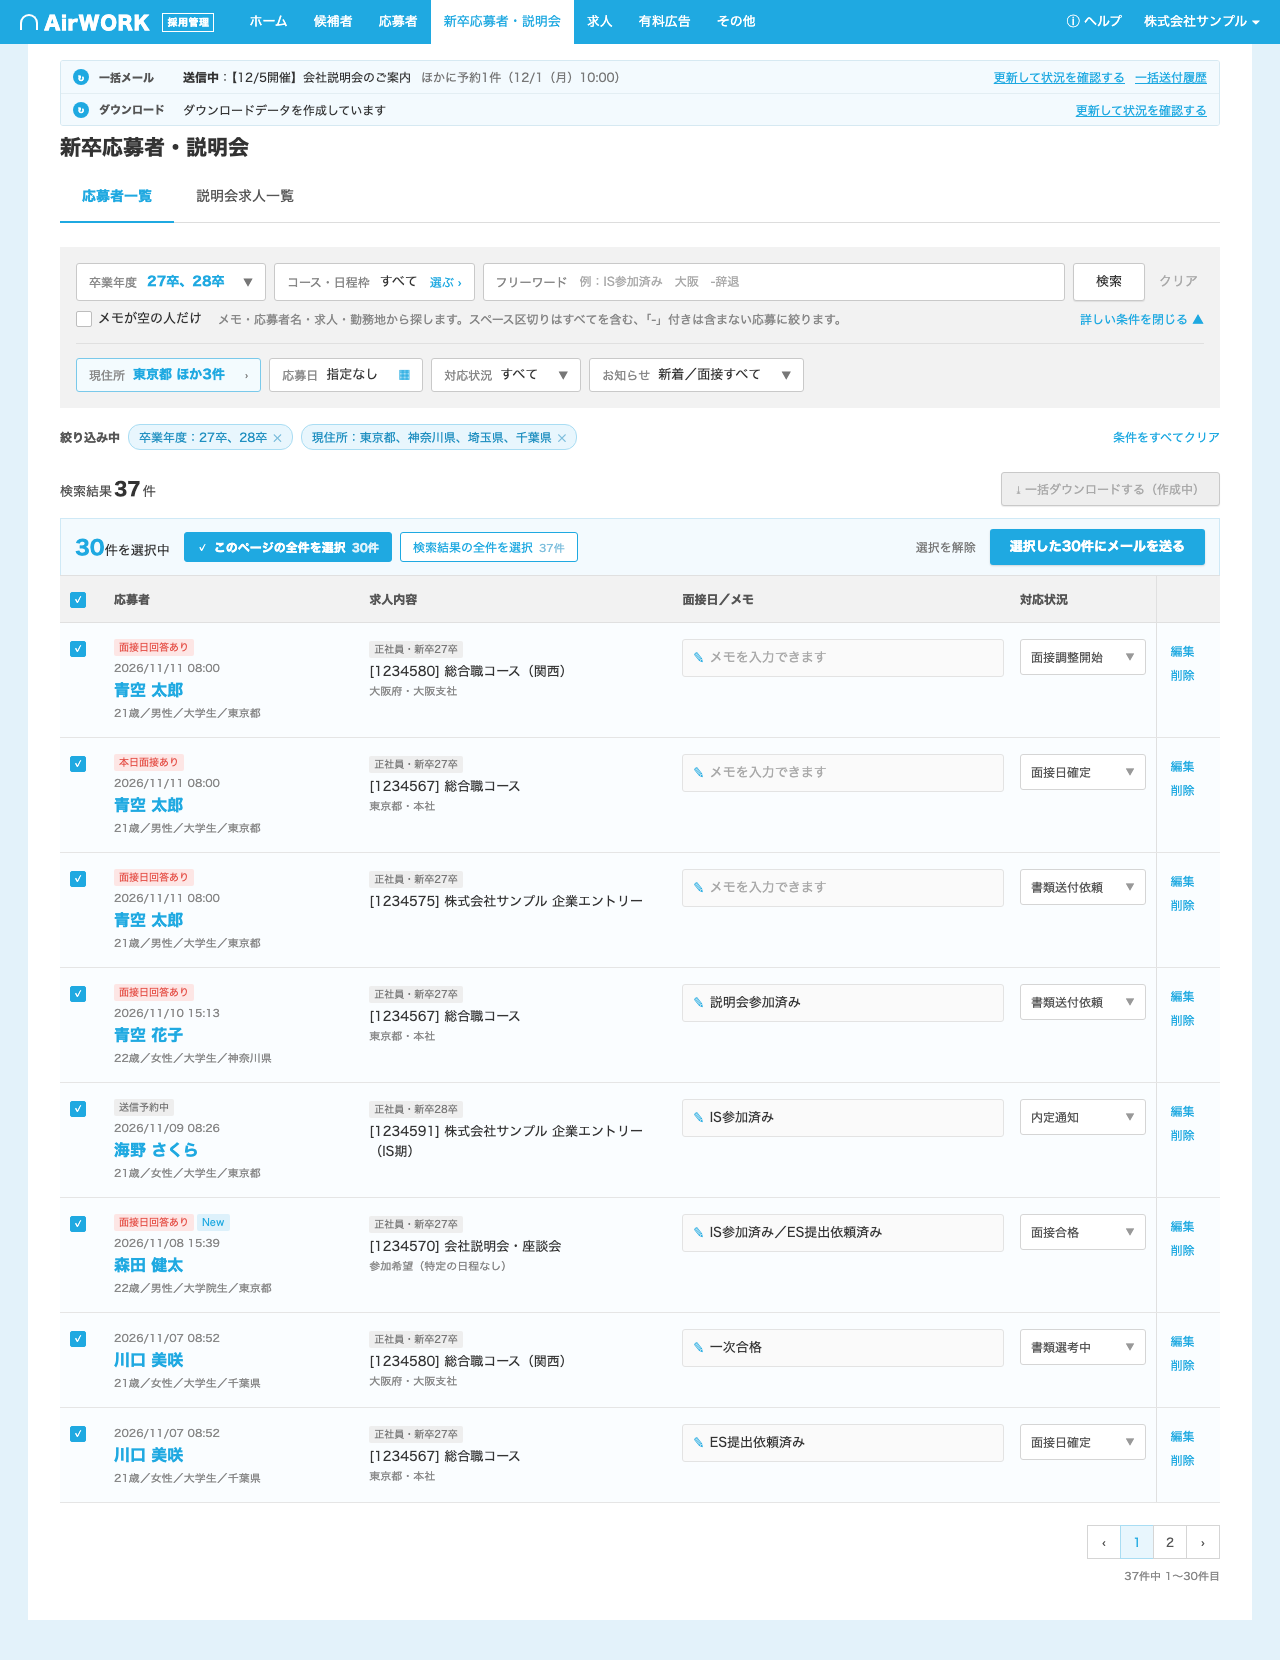
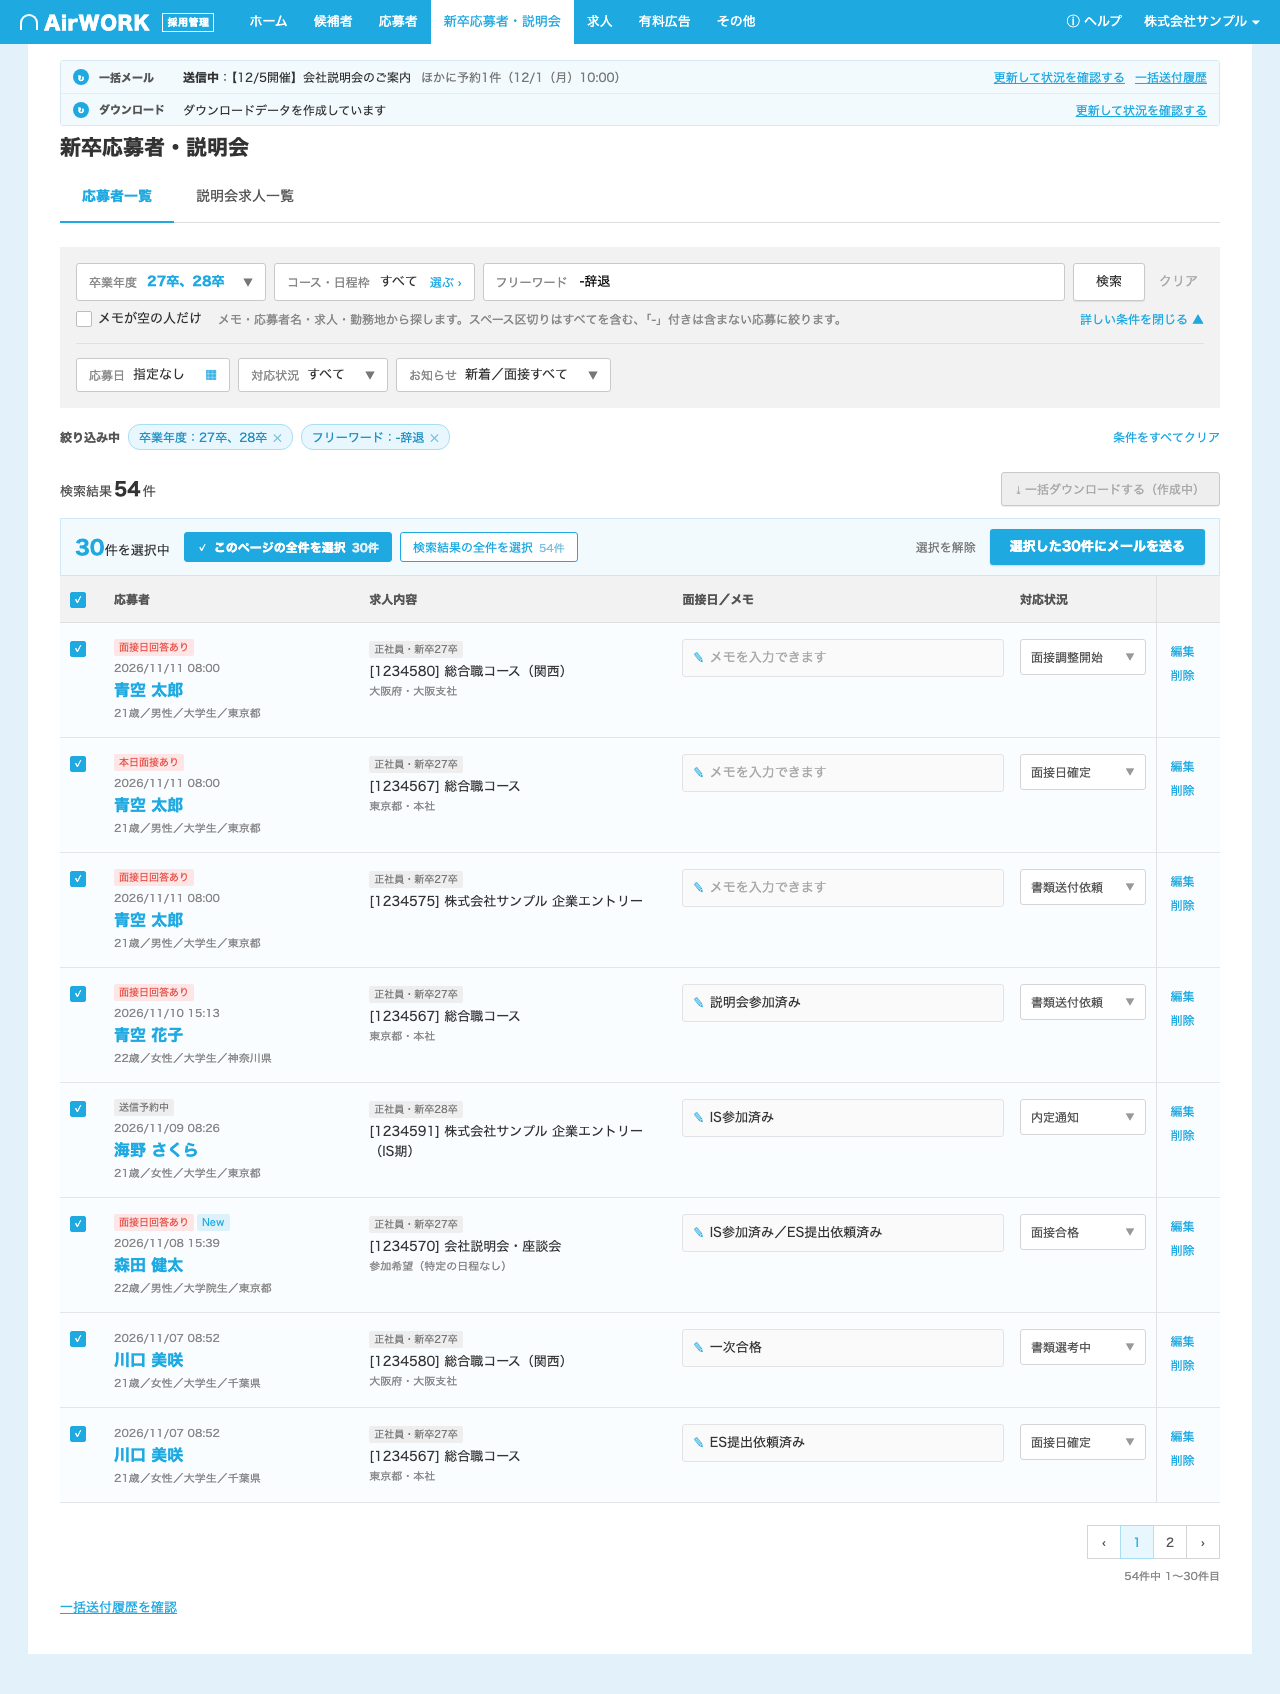
検索から現住所の絞り込みを外す

diff --git a/app.js b/app.js
@@ -94,7 +94,7 @@
   const jobById = (id) => JOBS.find((j) => j.id === id);
 
   // ---------- 状態 ----------
-  const F = { years: [], jobs: [], slots: [], kw: '', memoEmpty: false, prefs: [], date: '', statuses: [], notice: '' };
+  const F = { years: [], jobs: [], slots: [], kw: '', memoEmpty: false, date: '', statuses: [], notice: '' };
   let detailOpen = false;
   let page = 1;
   const PER = 30;
@@ -121,7 +121,6 @@
         if (!inc.every((w) => hay.includes(w))) return false;
         if (exc.some((w) => hay.includes(w))) return false;
       }
-      if (F.prefs.length && !F.prefs.includes(a.pref)) return false;
       if (F.date) {
         const d0 = new Date(a.date.getFullYear(), a.date.getMonth(), a.date.getDate());
         if (d0 < F.date.from || d0 > (F.date.to || F.date.from)) return false;
@@ -162,11 +161,10 @@
     const cs = courseSummary();
     $('courseVal').innerHTML = cs ? `<span class="on-v">${esc(cs)}</span>` : 'すべて';
     $('memoEmptyBox').classList.toggle('on', F.memoEmpty);
-    const detailCount = [F.prefs.length, F.date, F.statuses.length, F.notice].filter(Boolean).length;
+    const detailCount = [F.date, F.statuses.length, F.notice].filter(Boolean).length;
     $('moreBtn').textContent = detailOpen ? '詳しい条件を閉じる ▲' : `詳しい条件${detailCount ? `（${detailCount}件適用中）` : ''} ▼`;
     $('detail').classList.toggle('open', detailOpen);
     const chip = (btn, val, on, text) => { $(btn).classList.toggle('on', on); $(val).textContent = text; };
-    chip('prefBtn', 'prefVal', F.prefs.length > 0, F.prefs.length ? (F.prefs.length > 1 ? `${F.prefs[0]} ほか${F.prefs.length - 1}件` : F.prefs[0]) : 'すべて');
     chip('dateBtn', 'dateVal', !!F.date, F.date ? dateText(F.date) : '指定なし');
     chip('statusBtn', 'statusVal', F.statuses.length > 0, F.statuses.length ? (F.statuses.length > 1 ? `${F.statuses[0]} ほか${F.statuses.length - 1}件` : F.statuses[0]) : 'すべて');
     chip('noticeBtn', 'noticeVal', !!F.notice, F.notice || '新着／面接すべて');
@@ -179,7 +177,6 @@
     F.slots.forEach((s) => { const [jid, sid] = s.split(':'); tags.push([`slot:${s}`, `${jobById(jid).name}：${slotLabel(jid, sid)}`]); });
     if (F.kw) tags.push(['kw', `フリーワード：${F.kw}`]);
     if (F.memoEmpty) tags.push(['memoEmpty', 'メモが空の人だけ']);
-    if (F.prefs.length) tags.push(['prefs', `現住所：${F.prefs.join('、')}`]);
     if (F.date) tags.push(['date', `応募日：${dateText(F.date)}`]);
     if (F.statuses.length) tags.push(['statuses', `対応状況：${F.statuses.join('、')}`]);
     if (F.notice) tags.push(['notice', `お知らせ：${F.notice}`]);
@@ -296,31 +293,6 @@
   document.addEventListener('click', () => closeDDs());
 
   multiDD('yearBtn', 'yearDD', '学生の卒業年度（複数選べます）', ['26', '27', '28', '29'].map((y) => ({ v: y, t: y + '卒' })), () => F.years, (v) => { F.years = v; });
-  // ---------- 現住所の設定モーダル（自動アプローチの対象条件と同じ） ----------
-  const REGIONS = [
-    ['北海道・東北', ['北海道', '青森県', '岩手県', '宮城県', '秋田県', '山形県', '福島県']],
-    ['関東', ['東京都', '神奈川県', '埼玉県', '千葉県', '茨城県', '栃木県', '群馬県']],
-    ['甲信越・北陸', ['新潟県', '富山県', '石川県', '福井県', '山梨県', '長野県']],
-    ['東海', ['岐阜県', '静岡県', '愛知県', '三重県']],
-    ['関西', ['大阪府', '京都府', '兵庫県', '奈良県', '滋賀県', '和歌山県']],
-    ['中国・四国', ['鳥取県', '島根県', '岡山県', '広島県', '山口県', '徳島県', '香川県', '愛媛県', '高知県']],
-    ['九州・沖縄', ['福岡県', '佐賀県', '長崎県', '熊本県', '大分県', '宮崎県', '鹿児島県', '沖縄県']],
-  ];
-  const PREF_ORDER = REGIONS.flatMap((r) => r[1]);
-  let prefTmp = new Set();
-  function drawPref() {
-    $('pBody').innerHTML = REGIONS.map(([rn, ps]) => `<div class="preg"><div class="rn">${rn}</div><div class="ps">${ps.map((p) => `<label data-p="${p}"><span class="box ${prefTmp.has(p) ? 'on' : ''}"></span>${p}</label>`).join('')}</div></div>`).join('');
-  }
-  function closePref() { $('pov').classList.remove('open'); $('pmd').classList.remove('open'); }
-  $('prefBtn').addEventListener('click', (e) => {
-    e.stopPropagation(); closeDDs();
-    prefTmp = new Set(F.prefs); drawPref();
-    $('pov').classList.add('open'); $('pmd').classList.add('open');
-  });
-  $('pBody').addEventListener('click', (e) => { const l = e.target.closest('[data-p]'); if (!l) return; const p = l.dataset.p; prefTmp.has(p) ? prefTmp.delete(p) : prefTmp.add(p); drawPref(); });
-  $('pClose').onclick = closePref;
-  $('pov').onclick = closePref;
-  $('pSave').onclick = () => { F.prefs = PREF_ORDER.filter((p) => prefTmp.has(p)); closePref(); search(); };
   // ---------- 応募日カレンダー（期間指定） ----------
   const TODAY = new Date(2026, 10, 11);
   const cal = { y: 2026, m: 10, from: null, to: null };
@@ -386,7 +358,7 @@
   $('memoEmptyLbl').onclick = () => { F.memoEmpty = !F.memoEmpty; search(); };
   $('moreBtn').onclick = () => { detailOpen = !detailOpen; renderSearch(); };
   function clearAll() {
-    Object.assign(F, { years: [], jobs: [], slots: [], kw: '', memoEmpty: false, prefs: [], date: '', statuses: [], notice: '' });
+    Object.assign(F, { years: [], jobs: [], slots: [], kw: '', memoEmpty: false, date: '', statuses: [], notice: '' });
     $('kwIn').value = '';
     search();
   }
@@ -820,7 +792,6 @@
   }
   if (location.hash === '#modal-all') { openModal(); M.season = 'main'; toggleJob('1234570'); renderModal(); }
   if (location.hash === '#open' || location.hash === '#cal') { detailOpen = true; renderSearch(); }
-  if (location.hash === '#pref') { detailOpen = true; renderSearch(); F.prefs = ['東京都', '神奈川県', '埼玉県']; $('prefBtn').click(); }
   if (location.hash === '#cal') {
     $('dateBtn').click();
     [2, 8].forEach((d) => document.querySelector(`#dateDD [data-d="${new Date(2026, 10, d).getTime()}"]`).click());

diff --git a/style.css b/style.css
@@ -222,18 +222,6 @@ td.cs { padding-left: 0; }
 .calf { text-align: center; color: #888; font-size: 11px; margin-top: 8px; }
 .chip .cv.calic { color: #1FA9E1; font-size: 14px; }
 
-/* 現住所の設定モーダル */
-.pmd { display: none; position: fixed; left: 50%; top: 40px; transform: translateX(-50%); width: 730px; background: #fff; border-radius: 6px; overflow: hidden; box-shadow: 0 8px 28px rgba(0,0,0,.3); z-index: 51; }
-.pmd.open { display: block; }
-.pbody { padding: 26px; }
-.preg { display: flex; border-top: 1px solid #D5D5D5; padding: 8px 0; }
-.preg:last-child { border-bottom: 1px solid #D5D5D5; }
-.preg .rn { width: 116px; white-space: nowrap; flex: none; padding: 6px 12px; border-right: 1px solid #D5D5D5; font-size: 13px; color: #444; }
-.preg .ps { display: grid; grid-template-columns: repeat(6, 86px); padding-left: 14px; row-gap: 4px; }
-.preg label { display: flex; align-items: center; gap: 7px; height: 28px; font-size: 12px; color: #444; cursor: pointer; white-space: nowrap; }
-.pfoot { border-top: 1px solid #E0E0E0; padding: 12px 16px; display: flex; justify-content: flex-end; }
-.psave { height: 36px; padding: 0 16px; background: #1FA9E1; color: #fff; font-weight: 700; border-radius: 3px; display: inline-flex; align-items: center; cursor: pointer; box-shadow: 0 1px 2px rgba(0,0,0,.15); }
-.pmd .mh h2 { font-size: 18px; }
 
 /* 一括メール（作成・確認・受け付け） */
 .mxd { display: none; position: fixed; left: 50%; top: 24px; transform: translateX(-50%); width: 900px; max-height: calc(100vh - 48px); background: #fff; border-radius: 6px; overflow: hidden; box-shadow: 0 8px 28px rgba(0,0,0,.3); z-index: 51; flex-direction: column; }

diff --git a/index.html b/index.html
@@ -37,7 +37,6 @@
         <span class="more" id="moreBtn">詳しい条件 ▼</span>
       </div>
       <div class="detail" id="detail">
-        <div class="chip" id="prefBtn"><span class="k">現住所</span><span class="v" id="prefVal">すべて</span><span class="cv">›</span></div>
         <div class="ddwrap"><div class="chip" id="dateBtn"><span class="k">応募日</span><span class="v" id="dateVal">指定なし</span><span class="cv calic">▦</span></div><div class="dd" id="dateDD"></div></div>
         <div class="ddwrap"><div class="chip" id="statusBtn"><span class="k">対応状況</span><span class="v" id="statusVal">すべて</span><span class="cv">▼</span></div><div class="dd" id="statusDD"></div></div>
         <div class="ddwrap"><div class="chip" id="noticeBtn"><span class="k">お知らせ</span><span class="v" id="noticeVal">新着／面接すべて</span><span class="cv">▼</span></div><div class="dd" id="noticeDD"></div></div>
@@ -88,14 +87,6 @@
       <div class="mbtn" id="mdCancel">キャンセル</div>
       <div class="mbtn pr" id="mdApply">この条件で絞り込む</div>
     </div>
-  </div>
-
-  <!-- 現住所の設定モーダル -->
-  <div class="ov" id="pov"></div>
-  <div class="pmd" id="pmd">
-    <div class="mh"><span class="x" id="pClose">×</span><h2>現住所の設定</h2></div>
-    <div class="pbody" id="pBody"></div>
-    <div class="pfoot"><div class="psave" id="pSave">保存する</div></div>
   </div>
 
   <!-- 一括メール（作成・確認・受け付け） -->
